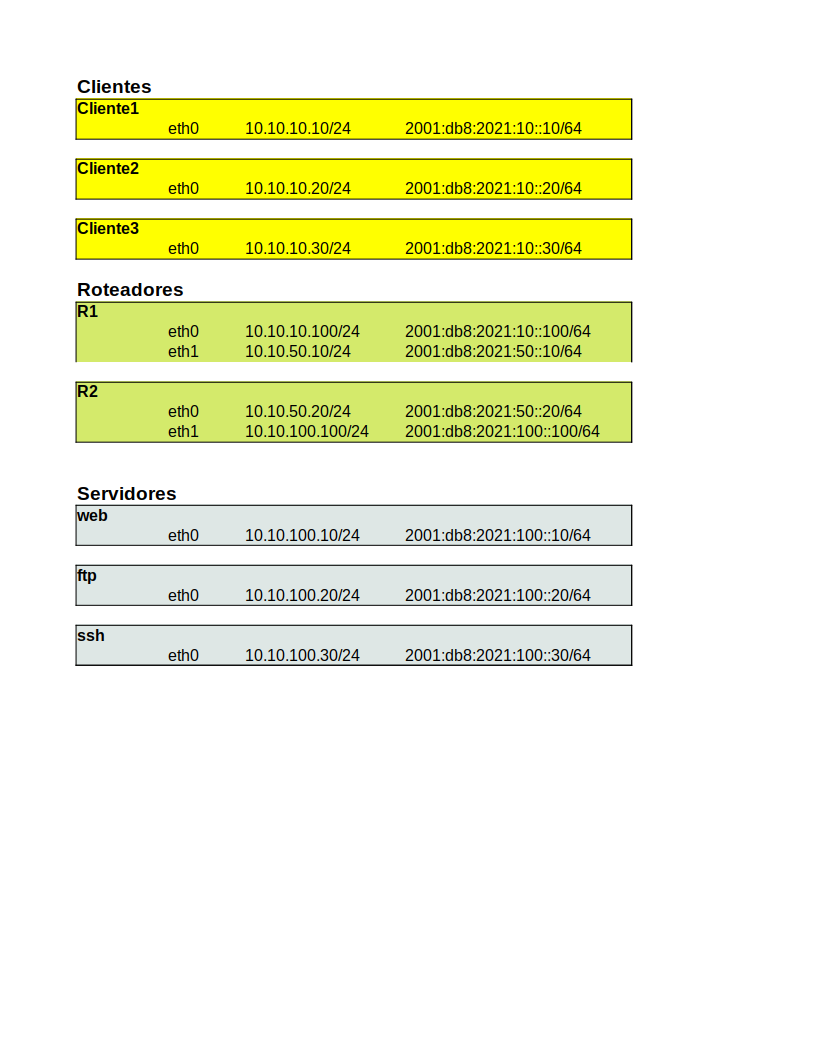
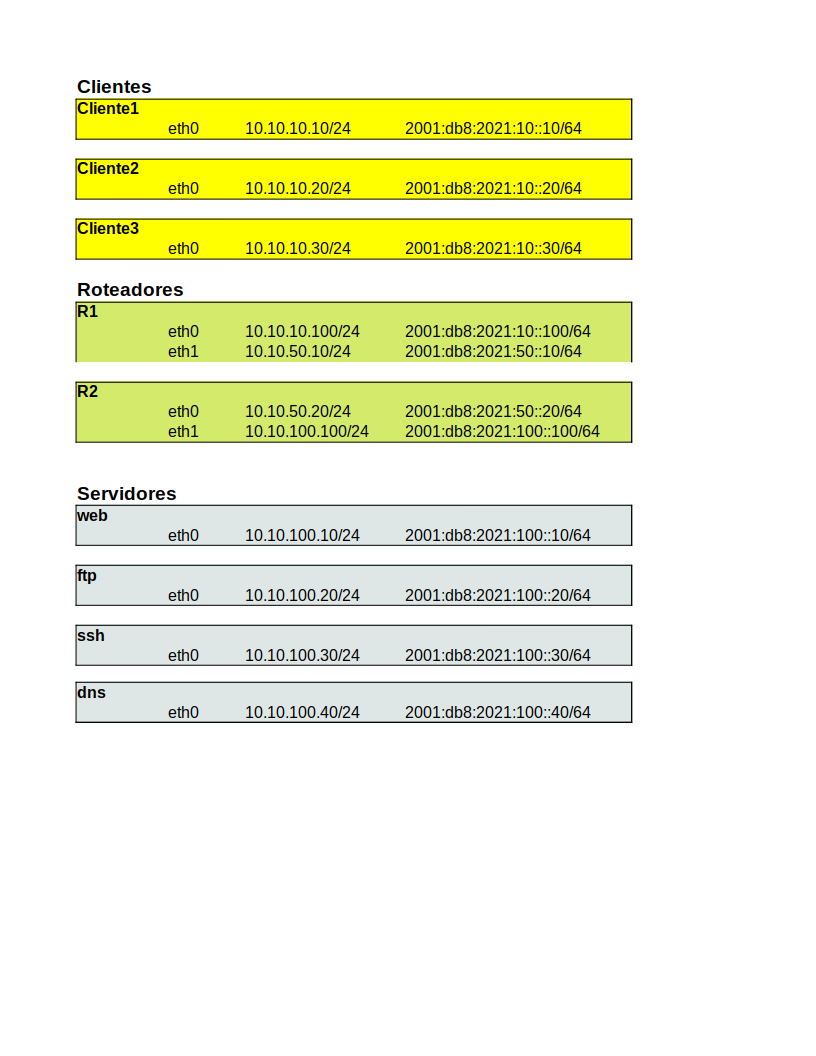
atualizacoes para edicao 2023

Changed region(s): [[0.0919, 0.625, 0.7966, 0.6875]]

diff --git a/imagens/README.md b/imagens/README.md
@@ -1,14 +1,15 @@
 
 # Criação das imagens
 
-* Neste diretório temos os arquivos Dockerfile responsáveis pela criação das imagens
-* Tarefa opcional, pois as imagens já estão disponíveis no DockerHub, sem necessidade de criar a imagem localmente
+* Neste diretório temos os arquivos Dockerfile responsáveis pela criação das imagens utilizadas na disciplina INF534
+* É uma tarefa opcional, pois as imagens já estão disponíveis no DockerHub, sem necessidade de criar a imagem localmente
 * Existe um Makefile para facilitar a criação:
   * mostra o help: make help
   * Cria todas as imagens para o laboratório: make all
   * Remove as imagens criadas e remove imagens nao utilizadas: make clean
-* Para simplificar, criei apenas 1 imagem debian-inf534 com todos os pacotes que serao utilizados na disciplina, tanto para clientes, roteadores e servidores. Assim, dependendo de como essa imagem for inicializada, ela poderá ser um cliente, um roteador, um servidor web, um servidor ftp ou um servidor ssh.
+* Para simplificar, criei 1 imagem debian-inf534 com todos os pacotes que serao utilizados na disciplina, tanto para clientes, roteadores e servidores (exceto DNS). Assim, dependendo de como essa imagem for inicializada, ela poderá ser um cliente, um roteador, um servidor web, um servidor ftp ou um servidor ssh.
 * Tradicionalmente instalamos apenas 1 unico servico no docker, mas optei por fazer simplificar a compreensao. Em producao, usem apenas 1 servico, simplificando o gerenciamento e atualizações.
+* Para o servidor de DNS, criamos uma imagem utilizando como base o "Alpine Linux" e rodando apenas o "servidor bind (dns)"
 
 # Comando para enviar para o dockerhub
 Apenas para quem deseja continuar o desenvolvimento das imagens e compartilhar com outras pessoas.

diff --git a/lab-inf534/README.md b/lab-inf534/README.md
@@ -1,9 +1,11 @@
 # Laboratório de redes para a disciplina inf534 usando docker
 
-Topologia mais elaborada, com 3 containers cliente, 2 roteadores e 3 servidores (1 servidor web (nginx), 1 servidor ftp e 1 servidor ssh)
+Topologia mais elaborada, com 3 containers cliente, 2 roteadores e 4 servidores (1 servidor web (nginx), 1 servidor ftp, 1 servidor ssh e 1 servidor de dns (bind))
 
 ## Diagrama da rede
-![Diagrama da rede](./diagrama.png "Diagrama da rede")
+* O diagrama da rede apresentado a seguir foi gerado pelo programa "draw.io" (https://app.diagrams.net/). O arquivo utilizado foi o diagrama.drawio 
+
+![Diagrama da rede](./diagrama.drawio.png "Diagrama da rede")
 
 ## Plano de endereçamento
 ![Plano de endereçamento](./planoEnderecamento.png "Plano de endereçamento")
@@ -21,6 +23,7 @@ Topologia mais elaborada, com 3 containers cliente, 2 roteadores e 3 servidores 
   * documentação para usuário: http://docs.frrouting.org/en/latest/
 
 ## Servidores
-* web (nginx), ftp e ssh.
+* web (nginx), ftp, ssh e dns.
 * para o ssh, temos usuario inf500 com senha inf500
 * o ftp aceita login anonimo (usuario ftp sem senha)
+* o servidor de dns (bind) utiliza a imagem alpine-bind 

diff --git a/docs/UsandoVirtualboxOVA.md b/docs/UsandoVirtualboxOVA.md
@@ -5,11 +5,11 @@
 * Verifique se a rede “vboxnet0” existe no seu Virtualbox (acessando File, Host Network Manager”);
 * Importar a imagem OVA (Importar Appliance) no Virtualbox;
 * Ajustar o caminho da pasta compartilhada (Selecionar a máquina virtual inf534, “Settings” e depois “Shared Folders”);
-* Instale no seu computador o sofware wireshark  (https://www.wireshark.org/)
-* Instale um cliente de ssh em seu computador. Existem vários softwares que podem ser utilizados. Destacamos aqui alguns:
+* Usuário já criado: inf500 com senha inf500
+* Instale no seu computador local o sofware wireshark  (https://www.wireshark.org/)
+* Instale um cliente de ssh em seu computador local. Existem vários softwares que podem ser utilizados. Destacamos aqui alguns:
   * para máquina com sistema operacional Linux (Unix-Like) pode ser utilizado o próprio comando de linha ssh;
   * Putty (https://www.putty.org/);
   * TeraTerm (https://ttssh2.osdn.jp/index.html.en);
   * Termius (https://termius.com/);
   * MobaXterm (https://mobaxterm.mobatek.net/).
-* Usuário já criado: inf500 com senha inf500

diff --git a/README.md b/README.md
@@ -6,10 +6,10 @@
 # Quickstart
 ## Pre-requisitos
 * git (https://git-scm.com/)
-* docker 
+* docker  (recomendado utilizar última versão)
   * Ambiente Linux: https://docs.docker.com/engine
   * Ambiente Windows e Mac: https://docs.docker.com/desktop
-* docker-compose (https://docs.docker.com/compose)
+* docker-compose, se estiver usando docker anterior à versão 23.0 (https://docs.docker.com/compose)
 ## Clonando o repositorio
 ```
 git clone https://github.com/sidneypio/NetLabDocker.git

diff --git a/docs/UsandoDocker.md b/docs/UsandoDocker.md
@@ -3,10 +3,10 @@
 # Quickstart
 ## Pre-requisitos
 * git (https://git-scm.com/)
-* docker 
+* docker (recomendado utilizar última versão)
   * Ambiente Linux: https://docs.docker.com/engine
   * Ambiente Windows e Mac: https://docs.docker.com/desktop
-* docker-compose (https://docs.docker.com/compose)
+* docker-compose, se estiver usando docker anterior à versão 23.0 (https://docs.docker.com/compose)
 ## Clonando o repositorio
 ```
 git clone https://github.com/sidneypio/NetLabDocker.git
